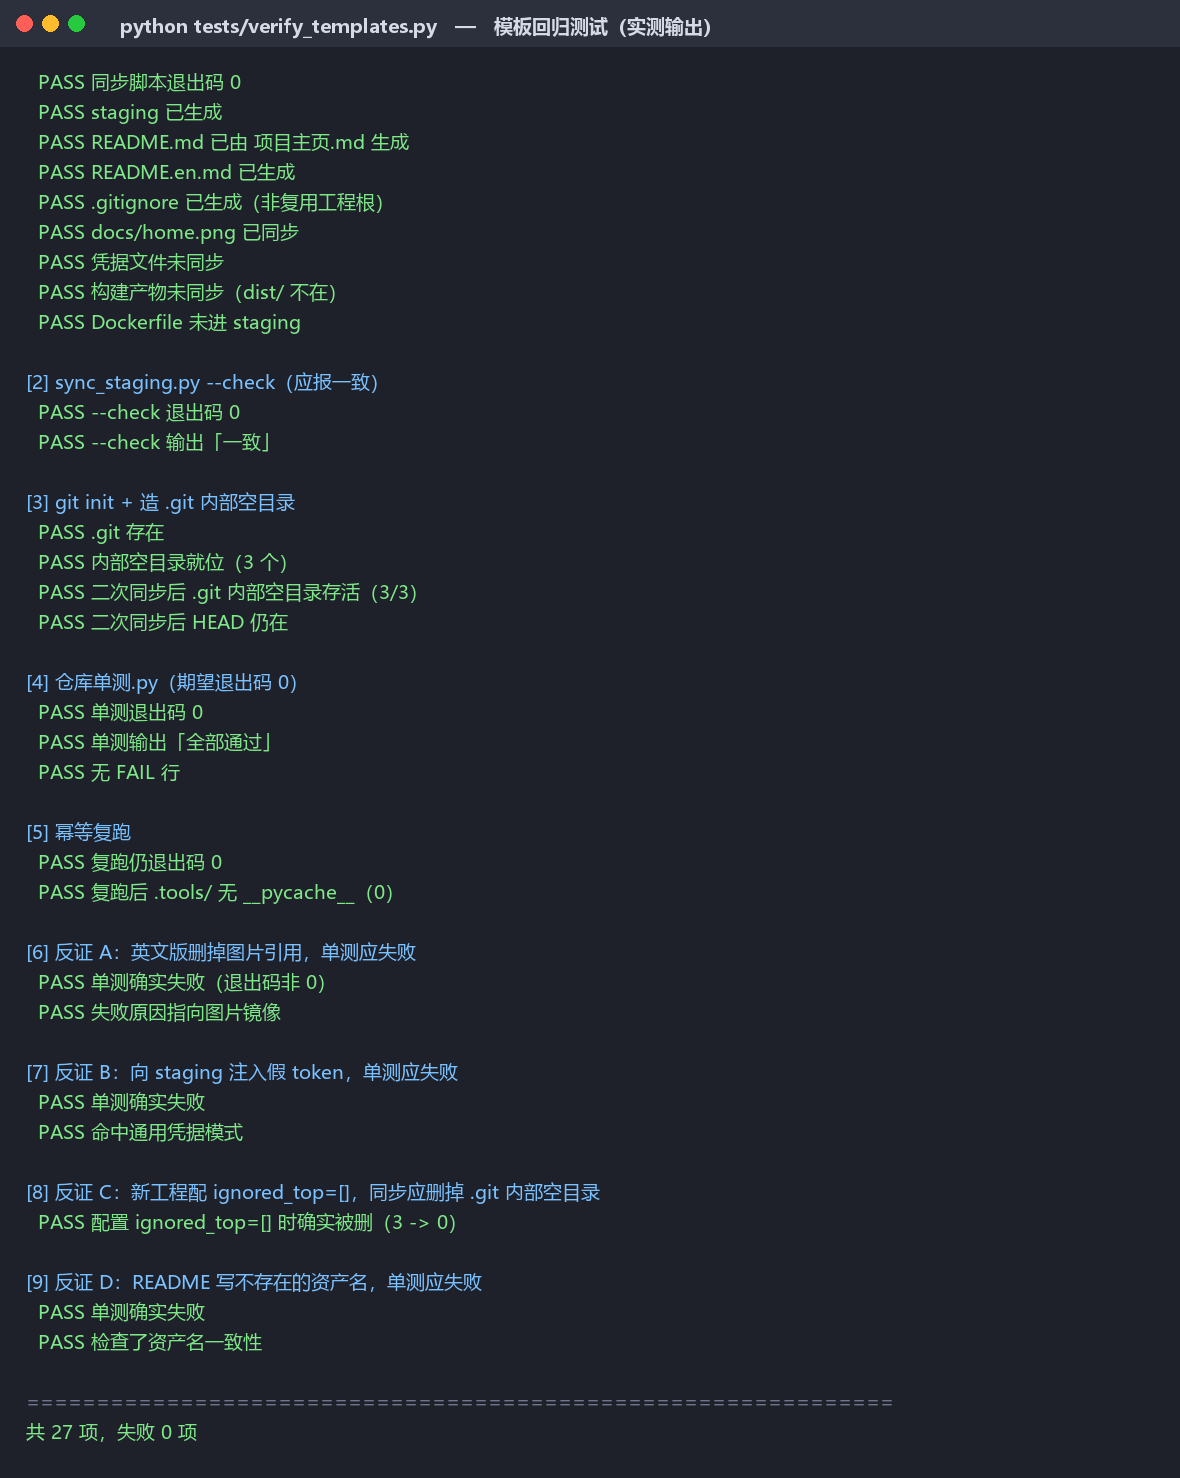
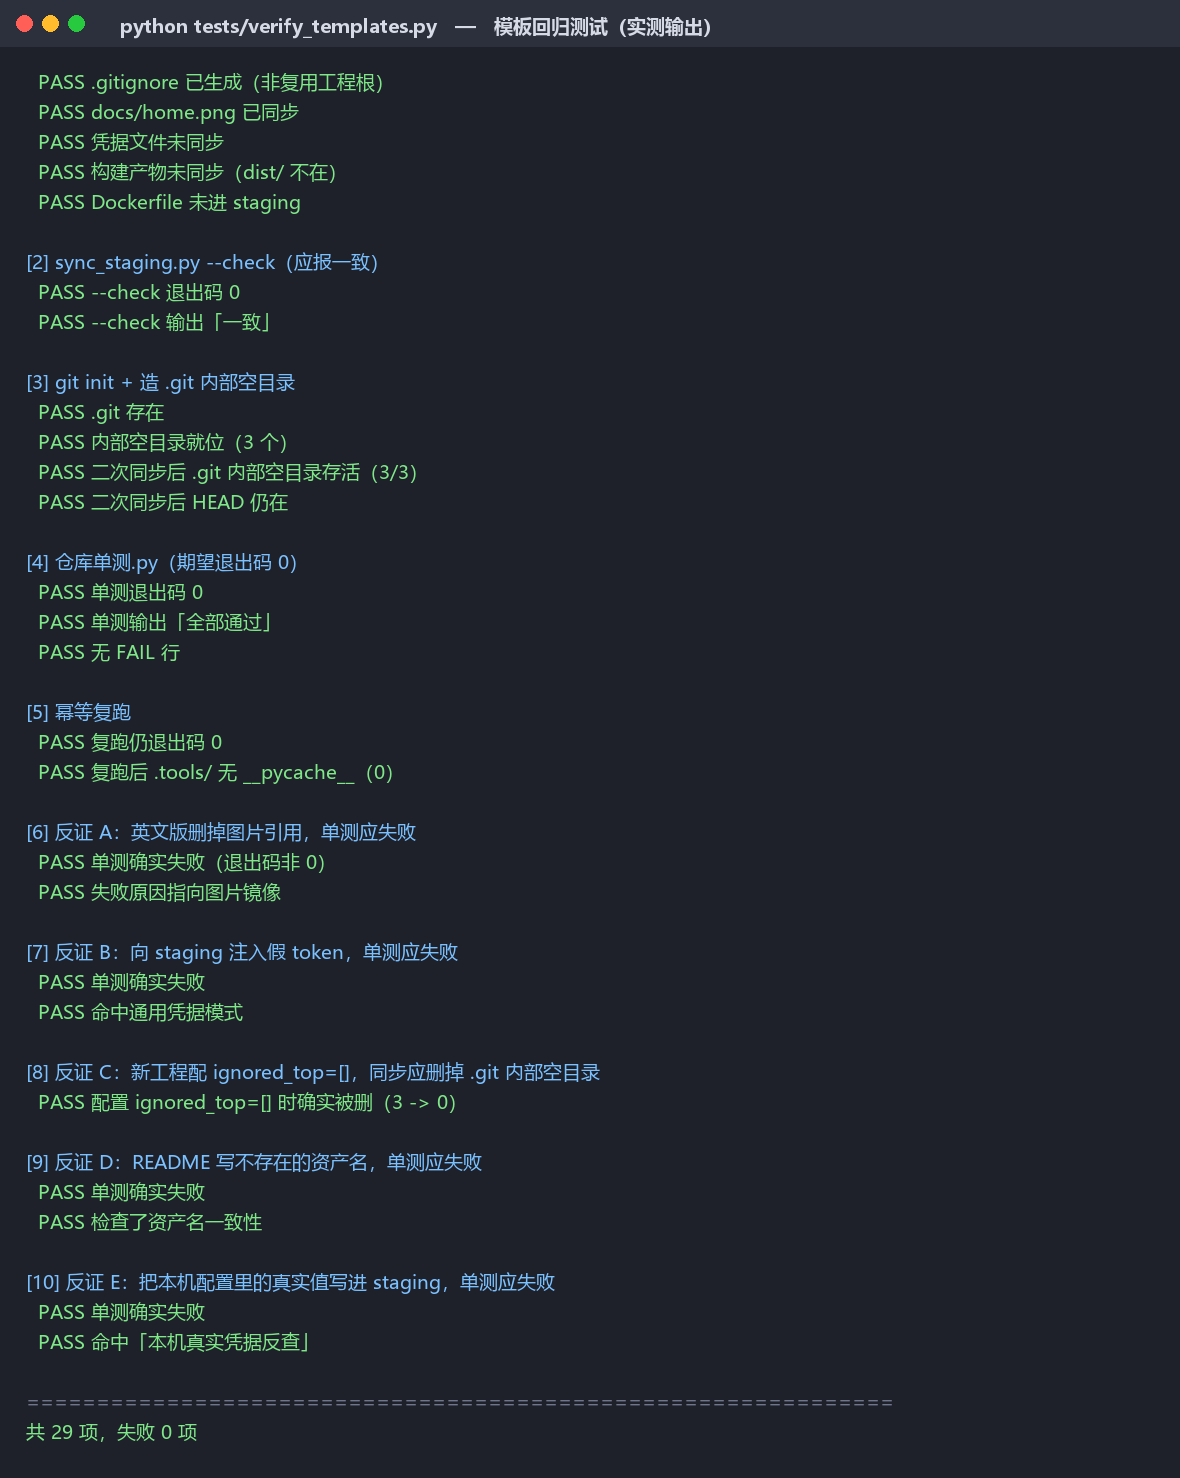
修正模板三处缺陷并补充反证 E；更新门面数字与配图

Changed region(s): [[0.0305, 0.0311, 0.3356, 0.5291], [0.0305, 0.5602, 0.5186, 0.8714], [0.061, 0.9026, 0.2746, 0.9337]]

diff --git a/templates/verify_public.py b/templates/verify_public.py
@@ -7,12 +7,21 @@
 检查项
 ------
 1. 仓库已公开          GET /repos/{o}/{r} → private=false
-2. README 双语可读      raw.githubusercontent.com/.../README.md → 200，
-                       且正文里含指向另一语言的相对链接
-3. 截图可访问          每张 docs/*.png → 200，且**字节数与本地一致**
+2. README 双语可读     两份 README 都取得到，且正文里含指向另一语言的相对链接
+3. 截图可访问          每张 docs/*.png 取得到，且**字节数与本地一致**
                        （只看到 200 不算 —— 传上去一张旧的也可能 200）
-4. 真实下载链接        github.com/{o}/{r}/releases/download/{tag}/{asset}
-                       → **206**（Range 请求），且前 4KB 与本地一致
+4. 真实下载链接        releases/download/{tag}/{asset} 取得到，且前 4KB 与本地一致
+
+双通道
+------
+`raw.githubusercontent.com` 与 `github.com` 的可达性跟 `api.github.com` **常常不一致**
+（本机实测过：api 通、raw 超时）。所以每个资源都准备两条路：
+
+    raw 通道      raw.githubusercontent.com/...            （首选，最接近真实读者体验）
+    API 兜底      GET /repos/{o}/{r}/contents/<path>
+                  Accept: application/vnd.github.raw+json （仍然是匿名请求）
+
+最终报告会写明每一项实际走的是哪条通道 —— 「验证通过」必须能说清是怎么通过的。
 
 用法
 ----
@@ -34,6 +43,7 @@ RAW = "https://raw.githubusercontent.com"
 
 READY = "OK  "
 FAIL = "FAIL"
+SKIPPED = []
 
 
 def session() -> requests.Session:
@@ -44,8 +54,33 @@ def session() -> requests.Session:
     return s
 
 
+def fetch_any(s: requests.Session, candidates: list) -> tuple:
+    """依次尝试 [(url, headers), ...]，返回 (status, content, url, errors)。
+
+    只有 5xx 与网络异常才继续往下试；4xx 是**明确的答案**（比如 404），直接返回。
+
+    ⚠ 超时必须**短**（连接 10s / 读 30s）。本机实测 raw 通道会整段假死，
+    给 90s 会让「验证」变成一次几分钟的挂起 —— 而挂起比失败更难判断。
+    """
+    errors = []
+    for url, headers in candidates:
+        try:
+            r = s.get(url, headers=headers or None, timeout=(10, 30))
+            if r.status_code < 500:
+                return r.status_code, r.content, url, None
+            errors.append("%s -> HTTP %s" % (url, r.status_code))
+        except requests.RequestException as exc:
+            errors.append("%s -> %s" % (url, type(exc).__name__))
+    return None, b"", "", "；".join(errors)
+
+
+def _channel(url: str) -> str:
+    return "api" if "api.github.com" in (url or "") else "raw"
+
+
+# ---------------------------------------------------------------------------
 def check_public(s: requests.Session) -> bool:
-    r = s.get("%s/repos/%s/%s" % (API, OWNER, REPO), timeout=30)
+    r = s.get("%s/repos/%s/%s" % (API, OWNER, REPO), timeout=(8, 20))
     if r.status_code != 200:
         print("%s 仓库不可匿名访问：HTTP %s" % (FAIL, r.status_code))
         return False
@@ -57,23 +92,30 @@ def check_public(s: requests.Session) -> bool:
     return ok
 
 
+def _file_candidates(rel_path: str, accept: str) -> list:
+    return [
+        ("%s/%s/%s/%s/%s" % (RAW, OWNER, REPO, DEFAULT_BRANCH, rel_path), None),
+        ("%s/repos/%s/%s/contents/%s" % (API, OWNER, REPO, rel_path), {"Accept": accept}),
+    ]
+
+
 def check_readme(s: requests.Session) -> bool:
     readme = CFG["readme"]
     pairs = [(readme["zh_target"], readme["en_target"]),
              (readme["en_target"], readme["zh_target"])]
     ok = True
     for name, counterpart in pairs:
-        url = "%s/%s/%s/%s/%s" % (RAW, OWNER, REPO, DEFAULT_BRANCH, name)
-        r = s.get(url, timeout=60)
-        if r.status_code != 200:
-            print("%s %s → HTTP %s" % (FAIL, name, r.status_code))
+        status, content, url, err = fetch_any(
+            s, _file_candidates(name, "application/vnd.github.raw+json"))
+        if status != 200:
+            print("%s %s → 取不到（%s）" % (FAIL, name, err or "HTTP %s" % status))
             ok = False
             continue
-        text = r.text
+        text = content.decode("utf-8", errors="replace")
         has_link = ("./%s" % counterpart) in text
-        print("%s %s → 200，%d 字节，切换链接%s"
-              % (READY if has_link else FAIL, name, len(r.content),
-                 "存在" if has_link else "**缺失**"))
+        print("%s %s → 200，%d 字节，切换链接%s（通道 %s）"
+              % (READY if has_link else FAIL, name, len(content),
+                 "存在" if has_link else "**缺失**", _channel(url)))
         ok = ok and has_link
     return ok
 
@@ -81,53 +123,77 @@ def check_readme(s: requests.Session) -> bool:
 def check_images(s: requests.Session) -> bool:
     images = CFG["verify"].get("images") or []
     if not images:
-        print("-- 未配置 verify.images，跳过图片校验")
+        SKIPPED.append("截图校验（verify.images 未配置）")
+        print("-- 跳过：截图校验（verify.images 未配置）")
         return True
     ok = True
     for rel in images:
         local = os.path.join(PROJECT, rel)
-        url = "%s/%s/%s/%s/%s" % (RAW, OWNER, REPO, DEFAULT_BRANCH, rel)
-        r = s.get(url, timeout=60)
-        if r.status_code != 200:
-            print("%s %s → HTTP %s" % (FAIL, rel, r.status_code))
+        status, content, url, err = fetch_any(
+            s, _file_candidates(rel, "application/vnd.github.raw+json"))
+        if status != 200:
+            print("%s %s → 取不到（%s）" % (FAIL, rel, err or "HTTP %s" % status))
             ok = False
             continue
         if not os.path.isfile(local):
             print("-- %s → 200（本地无同名文件，跳过字节比对）" % rel)
             continue
         local_size = os.path.getsize(local)
-        same = len(r.content) == local_size
-        print("%s %s → 200，远端 %d / 本地 %d 字节%s"
-              % (READY if same else FAIL, rel, len(r.content), local_size,
-                 "" if same else "  ← 不一致（是不是没同步？）"))
+        same = len(content) == local_size
+        print("%s %s → 200，远端 %d / 本地 %d 字节%s（通道 %s）"
+              % (READY if same else FAIL, rel, len(content), local_size,
+                 "" if same else "  ← 不一致（是不是没同步？）", _channel(url)))
         ok = ok and same
     return ok
 
 
 def check_release_assets(s: requests.Session) -> bool:
-    rel = CFG["release"]
+    rel = CFG.get("release") or {}
+    assets = rel.get("assets") or []
+    if not assets:
+        SKIPPED.append("下载链接校验（release.assets 为空）")
+        print("-- 跳过：下载链接校验（配置里没有 Release 资产）")
+        return True
+
     tag = rel["tag"]
+    # 先拿一次资产清单，供 API 兜底用（匿名请求，公开仓库可读）
+    by_name = {}
+    try:
+        r = s.get("%s/repos/%s/%s/releases/tags/%s" % (API, OWNER, REPO, tag),
+                  timeout=(8, 20))
+        if r.status_code == 200:
+            for item in r.json().get("assets") or []:
+                by_name[item["name"]] = item["id"]
+    except requests.RequestException:
+        pass
+
     ok = True
-    for item in rel.get("assets") or []:
+    for item in assets:
         name = item["name"]
         local = item["path"]
         if not os.path.isabs(local):
             local = os.path.join(PROJECT, local)
-        url = "https://github.com/%s/%s/releases/download/%s/%s" % (OWNER, REPO, tag, name)
-        try:
-            r = s.get(url, headers={"Range": "bytes=0-4095"}, timeout=120)
-        except Exception as exc:
-            print("%s %s → 请求失败：%s" % (FAIL, name, exc))
+
+        cands = [("https://github.com/%s/%s/releases/download/%s/%s" % (OWNER, REPO, tag, name),
+                  {"Range": "bytes=0-4095"})]
+        if name in by_name:
+            cands.append(("%s/repos/%s/%s/releases/assets/%s"
+                          % (API, OWNER, REPO, by_name[name]),
+                          {"Accept": "application/octet-stream",
+                           "Range": "bytes=0-4095"}))
+
+        status, content, url, err = fetch_any(s, cands)
+        if status is None:
+            print("%s %s → 两条通道都不通（%s）" % (FAIL, name, err))
             ok = False
             continue
-        # 真实链接会 302 到 release-assets.githubusercontent.com，requests 自动跟随；
-        # 206 = 服务端接受了 Range，比 200 更能证明是同一个文件。
-        good = r.status_code in (200, 206) and len(r.content) > 0
-        detail = "HTTP %s，前 %d 字节" % (r.status_code, len(r.content))
+        # 206 = 服务端接受了 Range，比 200 更能证明是同一个文件
+        good = status in (200, 206) and len(content) > 0
+        detail = "HTTP %s，前 %d 字节（通道 %s）" % (status, len(content), _channel(url))
         if good and os.path.isfile(local):
             with open(local, "rb") as handle:
-                head = handle.read(len(r.content))
-            if head == r.content:
+                head = handle.read(len(content))
+            if head == content:
                 detail += "，与本地一致"
             else:
                 detail += "，**与本地不一致**"
@@ -141,7 +207,7 @@ def check_release_assets(s: requests.Session) -> bool:
 
 def main() -> int:
     print("匿名验证 %s/%s（不带 Authorization）" % (OWNER, REPO))
-    print("-" * 60)
+    print("-" * 66)
     s = session()
 
     results = {
@@ -151,16 +217,21 @@ def main() -> int:
         "下载链接": check_release_assets(s),
     }
 
-    print("-" * 60)
+    print("-" * 66)
     for label, ok in results.items():
         print("%s %s" % (READY if ok else FAIL, label))
+    if SKIPPED:
+        print()
+        print("跳过 %d 项（不算通过）：" % len(SKIPPED))
+        for name in SKIPPED:
+            print("   -", name)
     bad = [k for k, v in results.items() if not v]
     if bad:
         print()
         print("未通过：%s" % "、".join(bad))
         return 1
     print()
-    print("全部通过 —— 任何人都可以打开链接、看到 README、下载到二进制。")
+    print("全部通过 —— 任何人都可以打开链接、看到 README、拿到文件。")
     return 0
 
 

diff --git a/SKILL.md b/SKILL.md
@@ -293,8 +293,9 @@ NOT_SECRET_KEYS = {"proxy"}   # 配置项，本就该出现在前端 placeholder
     `import publish_release` 改成读 `repo_config.json`，去掉了硬依赖）；
     ② 真跳过的项要进 `SKIPPED` 清单并在结尾**显式列出**，不计入通过。
 12. **模板本身要有回归测试** —— `tests/verify_templates.py` 会用真项目现场跑一遍
-    同步 → `git init` → 单测，再做 **4 组反证**（删图片引用 / 注入假 token /
-    资产名写错 / 配置关闭保护）。改任何模板后必须重跑；本轮它抓出了上面第 10 条。
+    同步 → `git init` → 单测，再做 **5 组反证**（删图片引用 / 注入假 token /
+    资产名写错 / 配置关闭保护 / 把本机凭据值抄进仓库）。改任何模板后必须重跑；
+    本轮它抓出了上面第 10、11 条，外加三处只在真实项目上才暴露的假阳性与崩溃。
 
 ---
 
@@ -325,7 +326,7 @@ NOT_SECRET_KEYS = {"proxy"}   # 配置项，本就该出现在前端 placeholder
 | `templates/publish_release.py` | 幂等上传资产到 Releases（默认 dry-run）+ 发布说明同步 |
 | `templates/verify_public.py` | 匿名验证（公开性 / README / 图片字节 / 下载链接 206） |
 | `templates/check_repo.py` | 单测：镜像 / 图片 / 资产名 / 部署残留 / 凭据 / `.git` 行为实测 |
-| `tests/verify_templates.py` | **模板自身的回归测试**（真跑一遍 + 4 组反证），改模板后必跑 |
+| `tests/verify_templates.py` | **模板自身的回归测试**（真跑一遍 + 5 组反证），改模板后必跑 |
 | `CHECKLIST.md` | 交付核对单 |
 | `reference.md` | 落地实例：`gdSHAY/douyin-wm-downloader` 的完整参数与踩坑记录 |
 
@@ -333,5 +334,5 @@ NOT_SECRET_KEYS = {"proxy"}   # 配置项，本就该出现在前端 placeholder
 改参数，再拷需要的脚本到 `.tools/`，改脚本顶部的 `import repo_config` 路径即可。
 `--check` / dry-run 是默认行为，任何写操作都要显式开关。
 
-**改过模板后**：`python tests/verify_templates.py` 必须 27/27 全绿（需要装了
+**改过模板后**：`python tests/verify_templates.py` 必须 29/29 全绿（需要装了
 `requests` 的解释器）。它证明的是「模板本身可用」，与具体项目无关。

diff --git a/README.en.md b/README.en.md
@@ -45,7 +45,7 @@ The standard has to survive its own scrutiny. The image below is a capture of an
 <div align="center">
 <img src="./docs/verify-run-zh.png" width="820" alt="Real output of the template regression test">
 <br>
-<sub>27 assertions plus 4 counter-proofs, all passing. The point of a counter-proof: disable the protection and the test really does fail — only then is the protection proven to work</sub>
+<sub>29 checks plus 5 counter-proofs, all passing. The point of a counter-proof: disable the protection and the test really does fail — only then is the protection proven to work</sub>
 </div>
 
 ## 📥 Get it
@@ -150,7 +150,7 @@ templates/
   README.zh.template.md     Chinese facade skeleton
   README.en.template.md     English facade skeleton
 tests/
-  verify_templates.py       Regression test for the templates (real run + 4 counter-proofs)
+  verify_templates.py       Regression test for the templates (real run + 5 counter-proofs)
 docs/                       README images
 ```
 
@@ -175,7 +175,7 @@ Because what readers most want to know is **what it cannot do**. Stating the res
 python tests/verify_templates.py
 ```
 
-It builds a throwaway project, runs the whole chain (sync, `git init`, sync again, self-check, self-check again), then applies 4 counter-proofs: remove the English image reference, inject a fake token, state a wrong asset name, and turn the protection off. Each one **must make the self-check fail**. Currently 27/27 pass.
+It builds a throwaway project, runs the whole chain (sync, `git init`, sync again, self-check, self-check again), then applies 5 counter-proofs: remove the English image reference, inject a fake token, state a wrong asset name, turn the protection off, and copy a real local credential value into the repo. Each one **must make the self-check fail**. Currently 29/29 pass.
 </details>
 
 <details>

diff --git a/README.md b/README.md
@@ -45,7 +45,7 @@
 <div align="center">
 <img src="./docs/verify-run-zh.png" width="820" alt="模板回归测试的真实输出">
 <br>
-<sub>27 项断言 + 4 组反证全部通过。反证的意义是：把保护关掉，测试确实会失败，才证明保护真的在起作用</sub>
+<sub>29 项检查 + 5 组反证全部通过。反证的意义是：把保护关掉，测试确实会失败，才证明保护真的在起作用</sub>
 </div>
 
 ## 📥 获取
@@ -150,7 +150,7 @@ templates/
   README.zh.template.md     中文门面骨架
   README.en.template.md     英文门面骨架
 tests/
-  verify_templates.py       模板自身回归测试（真跑一遍 + 4 组反证）
+  verify_templates.py       模板自身回归测试（真跑一遍 + 5 组反证）
 docs/                       README 配图
 ```
 
@@ -175,7 +175,7 @@ docs/                       README 配图
 python tests/verify_templates.py
 ```
 
-它会临时造一个真项目，跑完整链路（同步 → `git init` → 二次同步 → 自检 → 复跑自检），再做 4 组反证：删掉英文版图片引用、注入假 token、写错资产名、把保护配置关掉 —— 每一组都**必须让自检失败**。当前 27/27 通过。
+它会临时造一个真项目，跑完整链路（同步 → `git init` → 二次同步 → 自检 → 复跑自检），再做 5 组反证：删掉英文版图片引用、注入假 token、写错资产名、把保护配置关掉、把本机凭据值抄进仓库 —— 每一组都**必须让自检失败**。当前 29/29 通过。
 </details>
 
 <details>

diff --git a/reference.md b/reference.md
@@ -123,7 +123,7 @@ git -c core.autocrlf=false -c core.eol=lf clone <url> _verify
 ## 三补：模板回归测试
 
 `tests/verify_templates.py` 会临时造一个真项目，跑完整链路
-（同步 → `git init` → 反跑一次同步 → 单测 → 复跑单测），再做 4 组反证：
+（同步 → `git init` → 反跑一次同步 → 单测 → 复跑单测），再做 5 组反证：
 
 | 反证 | 期望 |
 | --- | --- |
@@ -131,8 +131,9 @@ git -c core.autocrlf=false -c core.eol=lf clone <url> _verify
 | 向 staging 注入 `ghp_xxx` 假 token | 单测失败，命中通用凭据模式 |
 | README 写不存在的资产名 | 单测失败 |
 | 新工程配 `ignored_top: []` | `.git` 内部空目录确实被删（证明配置真的驱动了行为） |
+| 把本机配置里的真实值抄进 staging | 单测失败，命中**反向扫描**（通用模式抓不到这种「自定义字段名 + 真值」） |
 
-当前结果：**27/27 通过**。改任何模板后必跑。
+当前结果：**29/29 通过**。改任何模板后必跑。
 
 ## 四、这次做的三件「非功能但很值」的事
 
